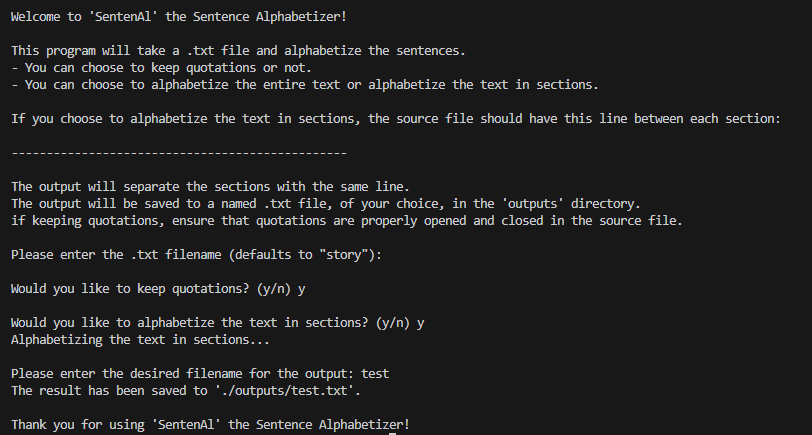
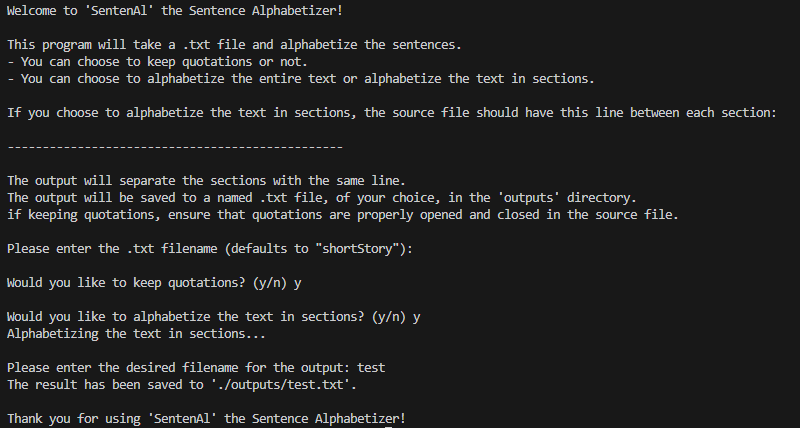
update default filename to shortStory.txt

diff --git a/SentenAl.js b/SentenAl.js
@@ -34,11 +34,11 @@ if keeping quotations, ensure that quotations are properly opened and closed in 
  * @returns {Promise<void>} A promise that resolves when the program is finished.
  */
 async function main() {
-  rl.question('Please enter the .txt filename (defaults to "story"):', async (sourceFile) => {
+  rl.question('Please enter the .txt filename (defaults to "shortStory"):', async (sourceFile) => {
     let sourceText;
     try {
       if (!sourceFile) {
-        sourceFile = 'story.txt';
+        sourceFile = 'shortStory.txt';
       }
       if (!sourceFile.endsWith('.txt')) {
         sourceFile += '.txt';
